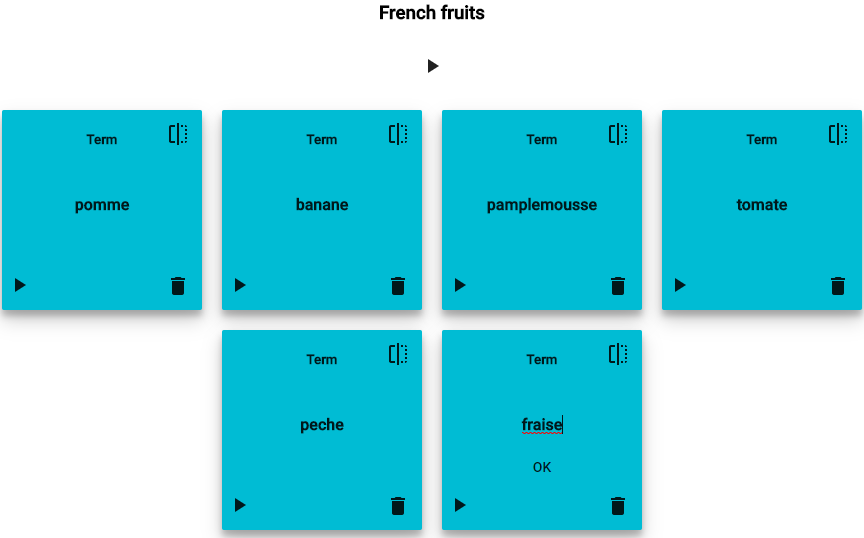
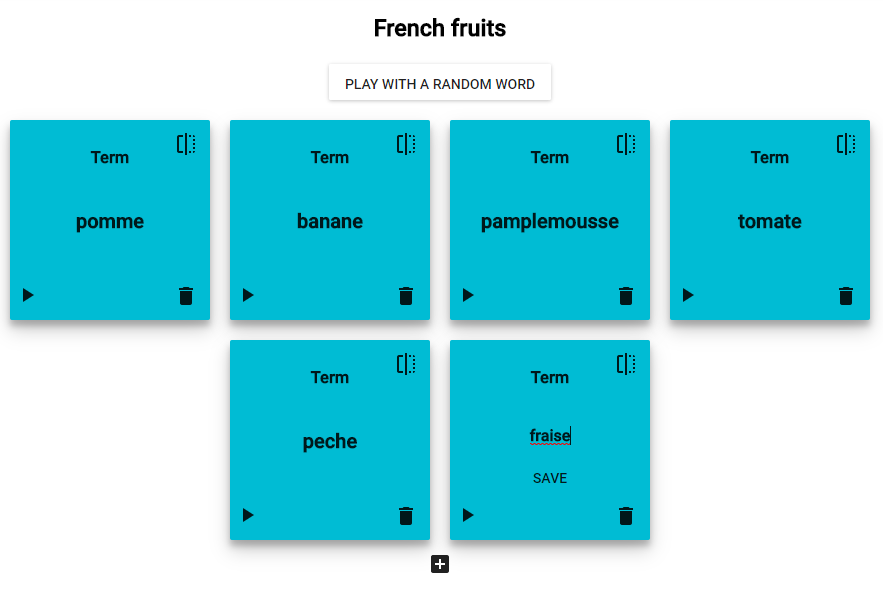
resize game letters and increase add card button bottom margin

diff --git a/src/styles/GamePage.css b/src/styles/GamePage.css
@@ -13,11 +13,18 @@
 }
 
 .game__letter {
-  margin: 0 3px 5px 3px;
+  /* margin: 0 3px 5px 3px; */
+  /* width: 10px; */
+  padding: 1px;
+}
+
+.game__letter div {
+  /* font-size: 2em !important; */
 }
 
 .game__word {
   font-size: 2.5em;
+  margin-top: 25px;
 }
 
 .game__feedback__button {

diff --git a/src/styles/WordSetPage.css b/src/styles/WordSetPage.css
@@ -57,6 +57,7 @@
   display: block !important;
   margin-left: auto !important;
   margin-right: auto !important;
+  margin-bottom: 30px !important;
 }
 
 .word-set__button--play {

diff --git a/src/styles/LandingSection.css b/src/styles/LandingSection.css
@@ -1,6 +1,6 @@
 .landing-section {
   min-height: 200px;
-  max-width: 800px;
+  max-width: 650px;
   padding: 30px 20px 10px 20px;
   margin: 0 auto 0 auto;
 }
